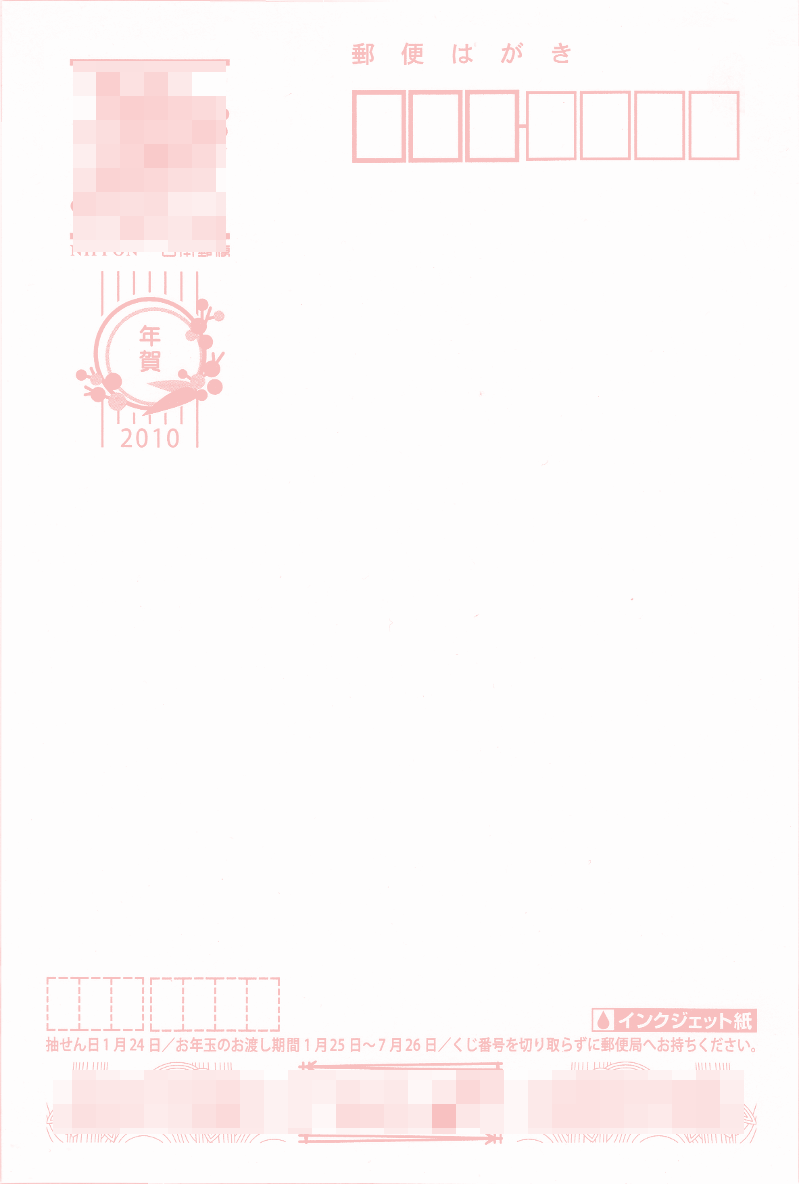
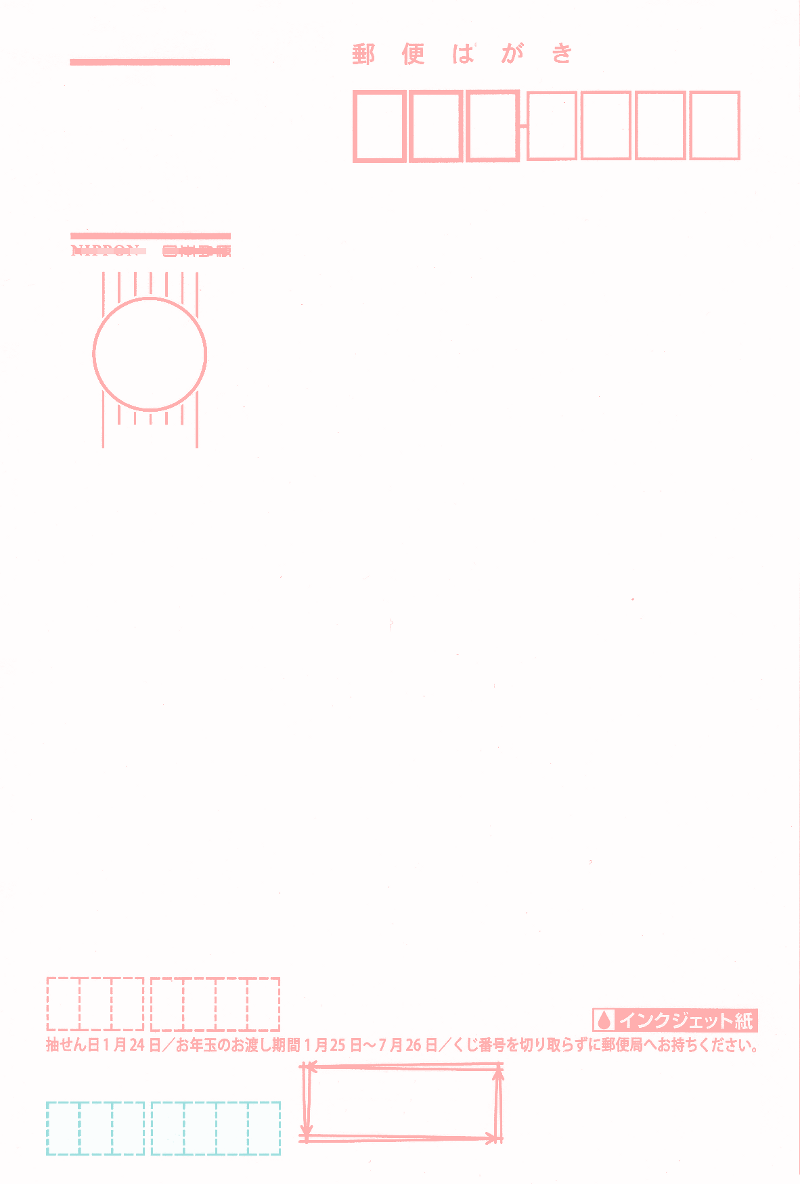
Make it possible to configure sender's zipcode framle location.

diff --git a/src/printha_settings.cpp b/src/printha_settings.cpp
@@ -38,6 +38,14 @@
         __KEY__.mEnd.mY \
        )
 
+#define PRINTHA_WRITE_CPP_POINT(__FILENAME__,__KEY__) \
+  flogf(__FILENAME__, \
+        "  %s = point_t(%f, %f);\n", \
+        #__KEY__, \
+        __KEY__.mX, \
+        __KEY__.mY \
+       )
+
 #define PRINTHA_WRITE_CPP_DOUBLE(__FILENAME__,__KEY__) \
   flogf(__FILENAME__, "  %s = %f;\n", #__KEY__, __KEY__)
 
@@ -81,6 +89,14 @@
         __KEY__.mEnd.mY \
        )
 
+#define PRINTHA_WRITE_TXT_POINT(__FILENAME__,__KEY__) \
+  flogf(__FILENAME__, \
+        "%-30s %f %f\n", \
+        #__KEY__, \
+        __KEY__.mX, \
+        __KEY__.mY \
+       )
+
 #define PRINTHA_WRITE_TXT_DOUBLE(__FILENAME__,__KEY__) \
   flogf(__FILENAME__, "%-30s %f\n", #__KEY__, __KEY__)
 
@@ -122,6 +138,13 @@
                   &__KEY__.mStart.mY, \
                   &__KEY__.mEnd.mX, \
                   &__KEY__.mEnd.mY); \
+    }
+#define PRINTHA_READ_TXT_POINT(__KEY__) \
+    else  if (0 == strncasecmp(#__KEY__, line.c_str(), \
+                                    int(std::strlen(#__KEY__) - 1))) { \
+      std::sscanf(line.c_str(), "%30s %lf %lf", buff, \
+                  &__KEY__.mX, \
+                  &__KEY__.mY); \
     }
 #define PRINTHA_READ_TXT_DOUBLE(__KEY__) \
     else  if (0 == strncasecmp(#__KEY__, line.c_str(), \
@@ -272,6 +295,7 @@ bool read(const char* aFileName, textformat_t& aSettings) {
   std::string& outputpath = aSettings.outputpath;
   char& pagedelimiter = aSettings.pagedelimiter;
   bool& drawnenga = aSettings.drawnenga;
+  point_t& sendfrom_zipframe_offset =  aSettings.sendfrom_zipframe_offset;
   personformat_t& sendto = aSettings.sendto;
   personformat_t& sendfrom = aSettings.sendfrom;
 
@@ -297,6 +321,7 @@ bool read(const char* aFileName, textformat_t& aSettings) {
     PRINTHA_READ_TXT_STRING(zipfont)
     PRINTHA_READ_TXT_CHAR(pagedelimiter)
     PRINTHA_READ_TXT_BOOLEAN(drawnenga)
+    PRINTHA_READ_TXT_POINT(sendfrom_zipframe_offset)
     PRINTHA_READ_TXT_PERSON(sendto)
     PRINTHA_READ_TXT_PERSON(sendfrom)
   }
@@ -316,6 +341,7 @@ void write(const char* aFileName, const textformat_t& aSettings,
     PRINTHA_WRITE_CPP_STRING(aFileName, aSettings.outputpath);
     PRINTHA_WRITE_CPP_CHAR(aFileName, aSettings.pagedelimiter);
     PRINTHA_WRITE_CPP_BOOLEAN(aFileName, aSettings.drawnenga);
+    PRINTHA_WRITE_CPP_POINT(aFileName, aSettings.sendfrom_zipframe_offset);
     PRINTHA_WRITE_CPP_PERSON(aFileName, aSettings.sendfrom);
     PRINTHA_WRITE_CPP_PERSON(aFileName, aSettings.sendto);
     flogf(aFileName, "}\n");
@@ -327,6 +353,8 @@ void write(const char* aFileName, const textformat_t& aSettings,
     const std::string& outputpath = aSettings.outputpath;
     const char& pagedelimiter = aSettings.pagedelimiter;
     const bool& drawnenga = aSettings.drawnenga;
+    const point_t& sendfrom_zipframe_offset = 
+      aSettings.sendfrom_zipframe_offset;
     const personformat_t& sendto = aSettings.sendto;
     const personformat_t& sendfrom = aSettings.sendfrom;
 
@@ -336,6 +364,7 @@ void write(const char* aFileName, const textformat_t& aSettings,
     PRINTHA_WRITE_TXT_STRING(aFileName, outputpath);
     PRINTHA_WRITE_TXT_CHAR(aFileName, pagedelimiter);
     PRINTHA_WRITE_TXT_BOOLEAN(aFileName, drawnenga);
+    PRINTHA_WRITE_TXT_POINT(aFileName, sendfrom_zipframe_offset);
     PRINTHA_WRITE_TXT_PERSON(aFileName, sendto);
     PRINTHA_WRITE_TXT_PERSON(aFileName, sendfrom);
   }

diff --git a/src/printha.cpp b/src/printha.cpp
@@ -690,12 +690,23 @@ void paint(FT_Face aFTSeletedFont, cairo_surface_t* aCS,
       printLines(aFTSeletedFont, aCS, token, aSettings.sendfrom.name);
     }
 
+    int32_t i;
     if (file) {
       std::getline(file, token, aSettings.sendfrom.dlmt);
+
+      ziprect_t modifiedZipRects;
+
+      for (i = 0; i < 7; i++) {
+        double x = aSettings.sendfrom_zipframe_offset.mX + zipRects2[i].mStart.mX;
+        double y = aSettings.sendfrom_zipframe_offset.mY + zipRects2[i].mStart.mY;
+        modifiedZipRects[i] = rect_t(point_t(x, y), 
+                                     zipRects2[i].width(), zipRects2[i].height());
+      }
+
       printZipcode(aCS, token.c_str(),
                    aSettings.zipfont.c_str(), aSettings.sendfrom.zipfontsize,
-                   zipRects2, aSettings.sendfrom.drawzipframe? DRAW_SENDFROM :
-                                                              NO_FRAME);
+                   modifiedZipRects, aSettings.sendfrom.drawzipframe?
+                                      DRAW_SENDFROM : NO_FRAME);
     }
 
     if (file) {
@@ -703,7 +714,6 @@ void paint(FT_Face aFTSeletedFont, cairo_surface_t* aCS,
       printLines(aFTSeletedFont, aCS, token, aSettings.sendfrom.addr);
     }
 
-    int i;
     for (i = 0; i < kExtraSize; i++) {
       if (!file || file.eof()) {
         break;

diff --git a/src/printha.h b/src/printha.h
@@ -71,7 +71,7 @@ struct frameformat_t {
 
 struct personformat_t {
   char dlmt;
-  double zipfontsize; //milimeter
+  double zipfontsize;     //Pt
   frameformat_t name;
   frameformat_t addr;
   frameformat_t extra[6];
@@ -85,6 +85,8 @@ struct textformat_t {
   std::string zipfont;
   char pagedelimiter;
   bool drawnenga;
+  bool preview;
+  point_t sendfrom_zipframe_offset;      //mm
   personformat_t sendto;
   personformat_t sendfrom;
 };

diff --git a/src/printha_init.cpp b/src/printha_init.cpp
@@ -5,6 +5,7 @@ void init(textformat_t& aSettings) {
   aSettings.outputpath = "";
   aSettings.pagedelimiter = '|';
   aSettings.drawnenga = false;
+  aSettings.sendfrom_zipframe_offset = point_t(0.000000, 0.000000);
   aSettings.sendfrom.dlmt = ';';
   aSettings.sendfrom.zipfontsize = 12.000000;
   aSettings.sendfrom.name.rect = rect_t(0.000000, 200.000000, 32.000000, 340.000000);
